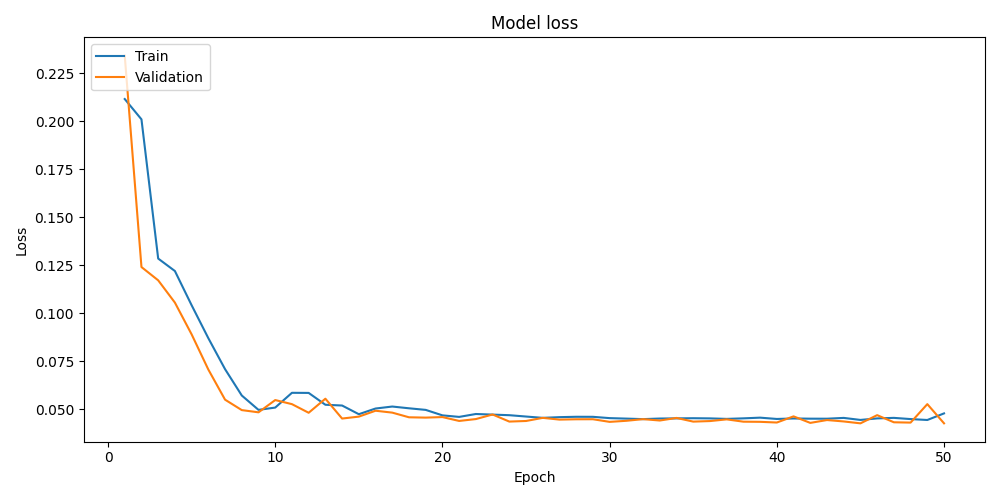
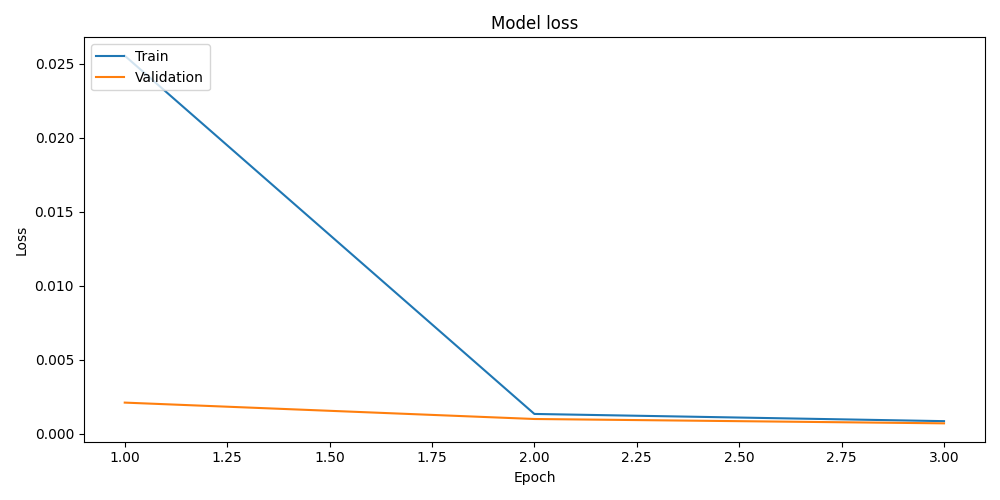
final before test run. Crashes on line 177"

diff --git a/main.py b/main.py
@@ -5,7 +5,7 @@ import numpy as np
 import tensorflow as tf
 import matplotlib.pyplot as plt
 from sklearn.model_selection import train_test_split
-gf
+
 def build_srcnn_model():
     inputs = tf.keras.Input(shape=(1024, 1024, 1))  # Fixing the input size
     conv1 = tf.keras.layers.Conv2D(64, (9, 9), activation='relu', padding='same', name='conv1')(inputs)
@@ -126,14 +126,14 @@ def show_result_and_og(input, output):
     true.axis('off')
     true.set_title('Original Image', fontsize=22)
     plt.tight_layout()
-
+    os.makedirs('plots', exist_ok=True)
     plt.savefig('plots/result.png')
     plt.close(fig)
 
 if __name__ == "__main__":
-    RAW_DIR = 'data/raw'
-    PROCESSED_DIR = 'data/processed'
-    EPOCHS = 100
+    RAW_DIR = 'data/raw_slim'
+    PROCESSED_DIR = 'data/processed_slim'
+    EPOCHS = 3
     BATCH_SIZE = 8
 
     # Split filenames into training and validation sets
@@ -153,6 +153,8 @@ if __name__ == "__main__":
         validation_steps = len(val_filenames) // BATCH_SIZE
 
         history = model.fit(train_gen, steps_per_epoch=steps_per_epoch, epochs=EPOCHS, validation_data=val_gen, validation_steps=validation_steps)
+        # MLFlow zapisze i spickluje model
+        model.save('srcnn_model.h5')
 
         # Save hyperparameters
         mlflow.log_param('epochs', EPOCHS)
